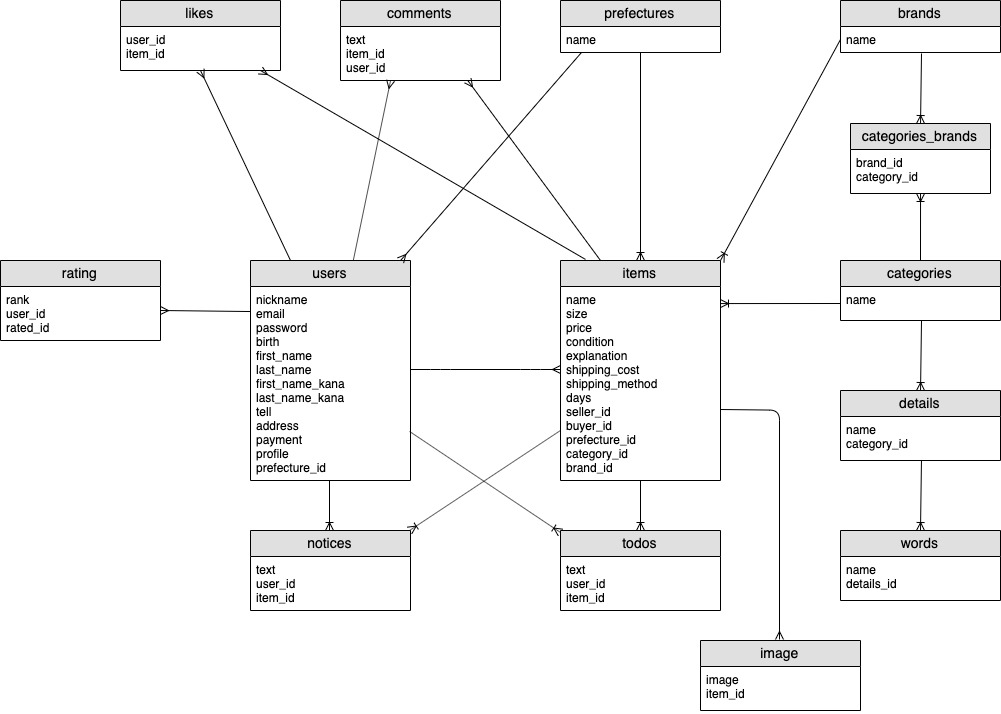
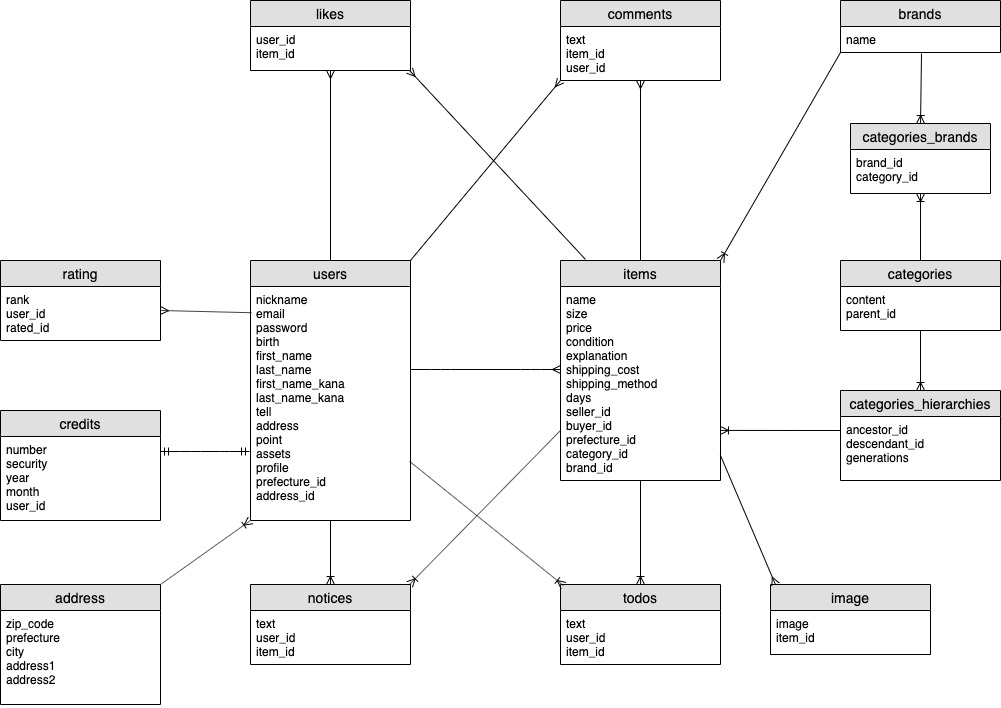
DB設計修正
addressテーブル作成、アソシエーション修正
prefecture table削除
user、creditテーブル修正

diff --git a/README.md b/README.md
@@ -15,22 +15,35 @@ https://www.draw.io/?state=%7B%22ids%22:%5B%221sEhle2n1CE_6fTWH9v8_9e-L5-2EO3Bo%
 |first_name_kana|string|null: false|
 |last_name_kana|string|null: false|
 |tel|integer|unique: true|
-|address|text|null: true|
 |profile|text|null: true|
 |point|integer|null: true|
 |assets|integer|null: true|
 |prefecture_id|references|null: false, foreign_key: true|
-|credit_id|references|null: false, foreign_key: true|
+|address_id|references|null: false, foreign_key: true|
 
 ### Association
 - belongs_to :prefecture
-- belongs_to :credit
+- belongs_to :address
+- has_one :credit
 - has_many :comments
 - has_many :likes
 - has_many :ratings
 - has_many :notices
 - has_many :todos
 - has_many :items
+
+## address table
+
+|Column|Type|Options|
+|------|----|-------|
+|zip_code|integer|null: false|
+|prefecture|text|null: true|
+|city|text|null: true|
+|address1|text|null: true|
+|address2|text|null: true|
+
+### Association
+- has_many :users
 
 ## credits table
 
@@ -40,6 +53,7 @@ https://www.draw.io/?state=%7B%22ids%22:%5B%221sEhle2n1CE_6fTWH9v8_9e-L5-2EO3Bo%
 |security|integer|null: false|
 |year|date|null: false|
 |month|date|null: false|
+|user_id|references|null: false, foreign_key: true|
 
 ### Association
 - belongs_to :user
@@ -184,13 +198,3 @@ https://www.draw.io/?state=%7B%22ids%22:%5B%221sEhle2n1CE_6fTWH9v8_9e-L5-2EO3Bo%
 ### Association
 - belongs_to :item
 - belongs_to :user
-
-## prefecture table
-
-|Column|Type|Options|
-|------|----|-------|
-|name|string|null: false, unique: true|
-
-### Association
-- has_many :items
-- has_many :users
